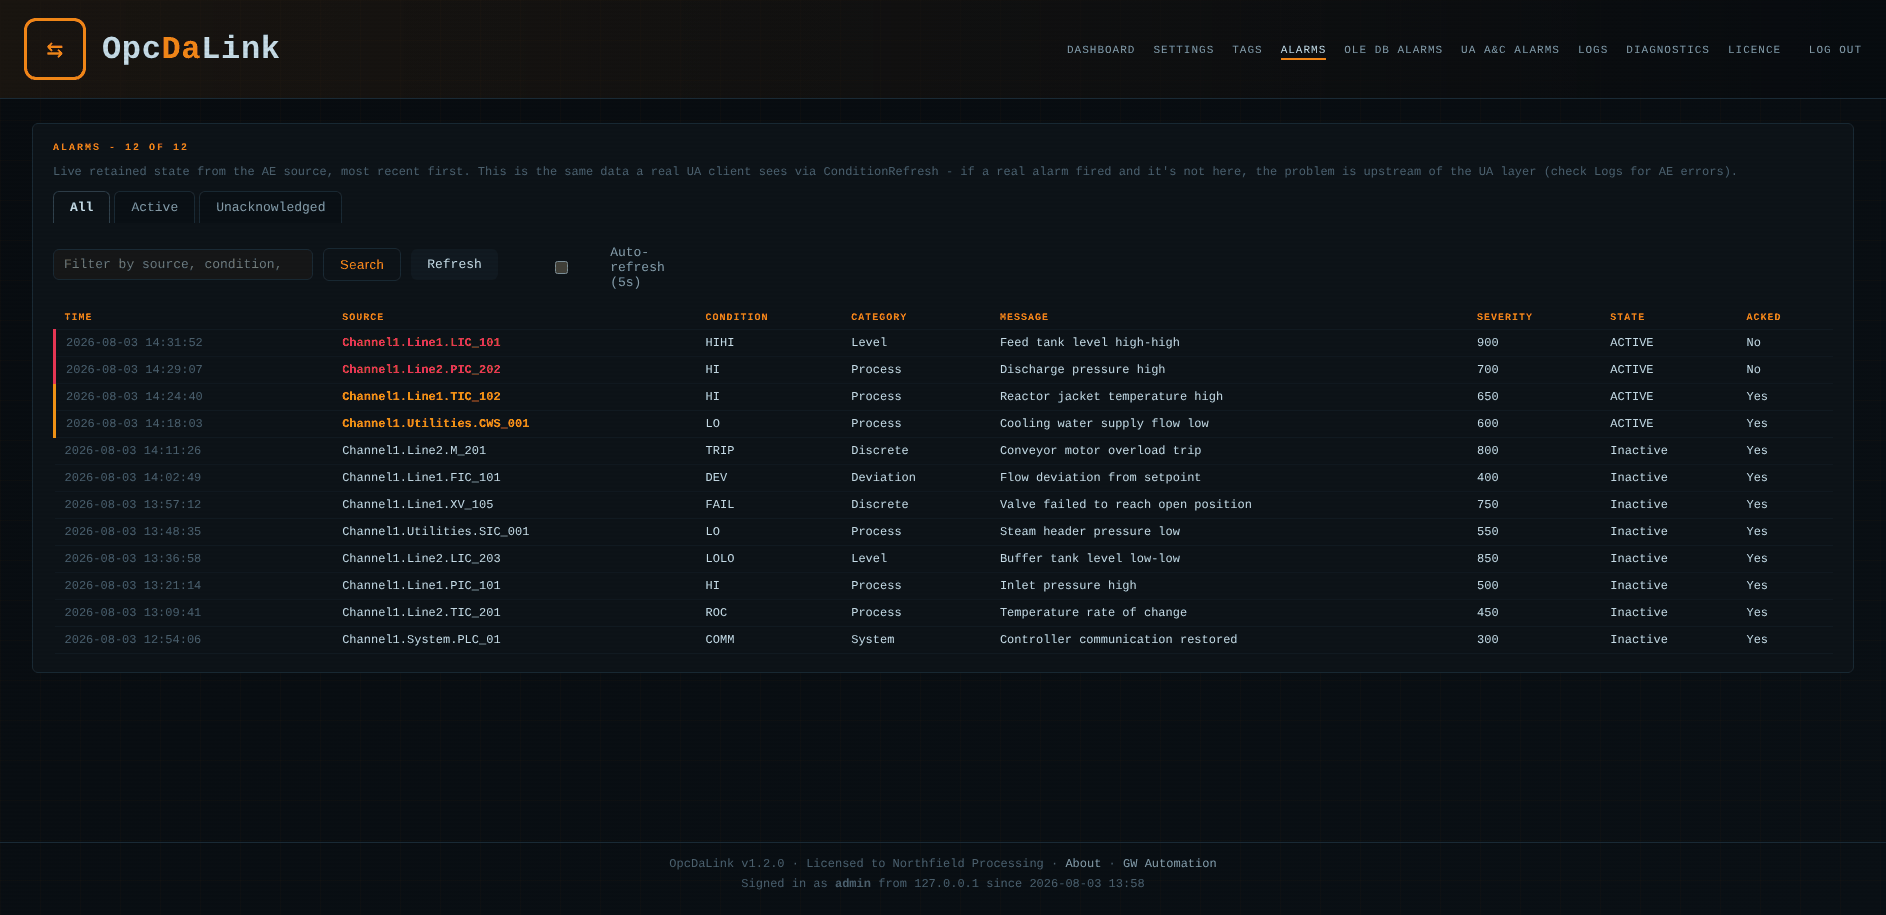
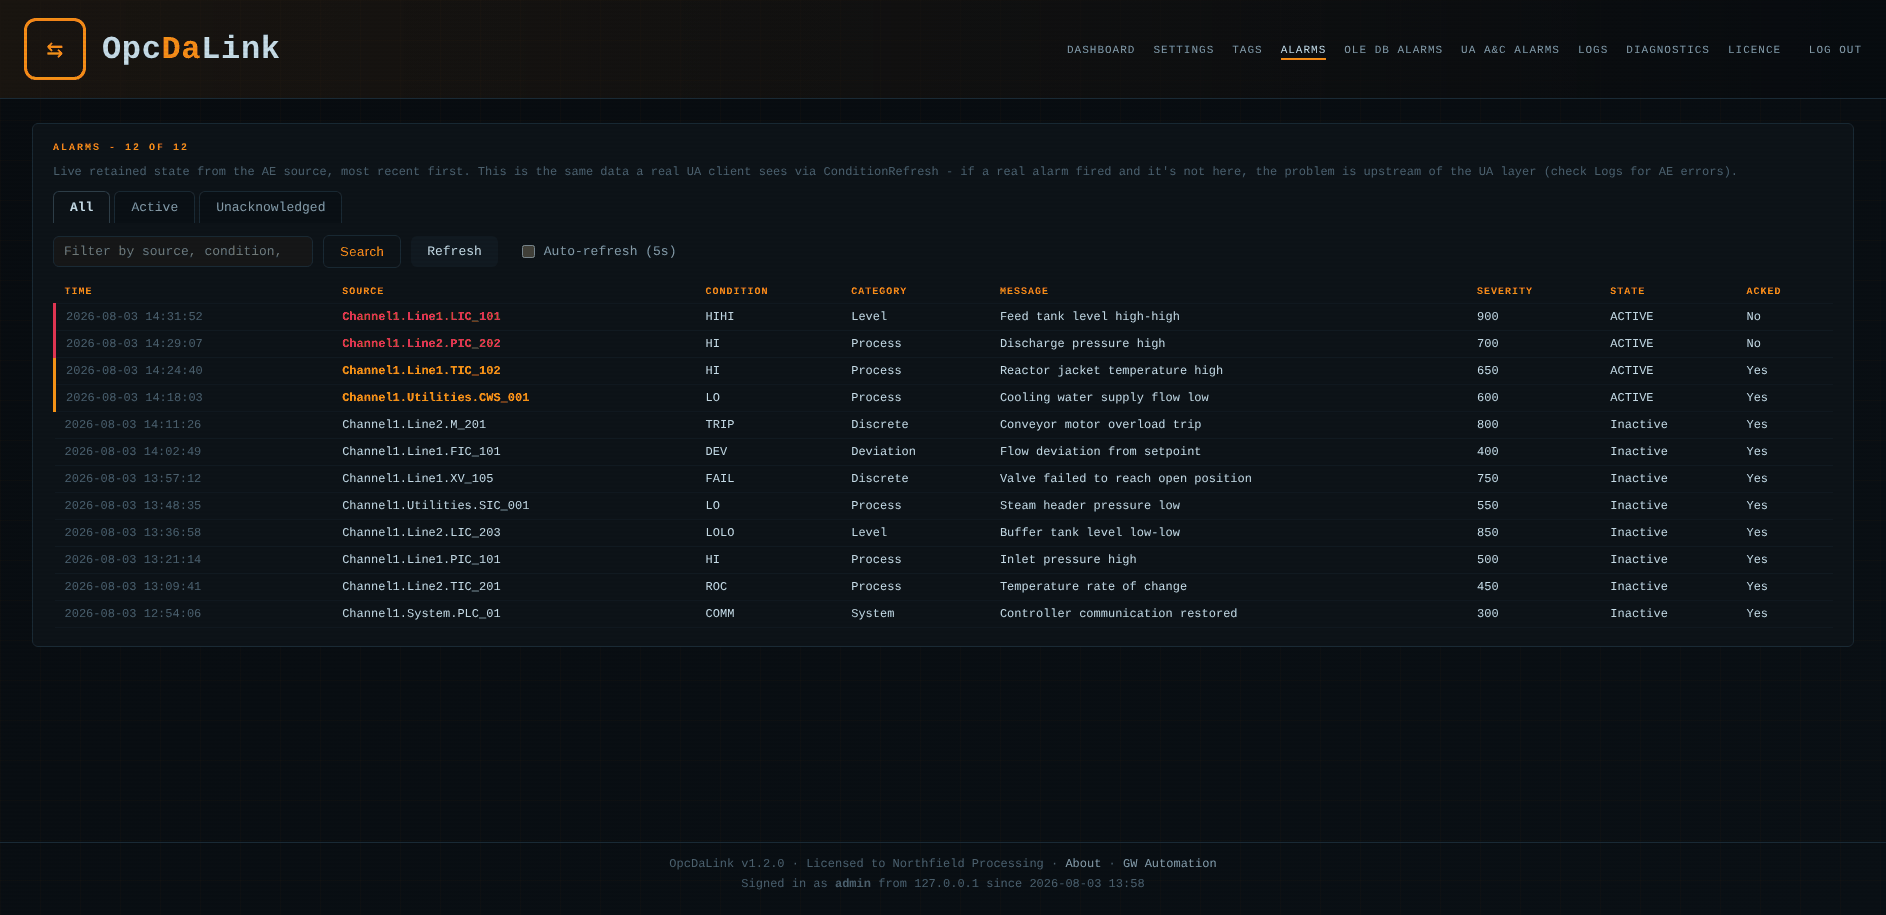
Retake OpcDaLink alarms and licence screenshots after the product styling fixes
Claude-Session: https://claude.ai/code/session_01DbtpwZXLdQCGhjVUBmrpbQ

diff --git a/opcdalink/index.html b/opcdalink/index.html
@@ -80,10 +80,10 @@
           <button role="tab" type="button" aria-selected="true" tabindex="0" data-src="/assets/da-dashboard.png?v=1" data-alt="OpcDaLink dashboard showing DA connection status, UA endpoint and mirrored item count">Dashboard</button>
           <button role="tab" type="button" aria-selected="false" tabindex="-1" data-src="/assets/da-tags.png?v=1" data-alt="OpcDaLink tags page listing the mirrored DA address space with live values and quality">Tags</button>
           <button role="tab" type="button" aria-selected="false" tabindex="-1" data-src="/assets/da-history.png?v=1" data-alt="OpcDaLink HDA catalog listing the history tags the historian holds">History tags</button>
-          <button role="tab" type="button" aria-selected="false" tabindex="-1" data-src="/assets/da-alarms.png?v=1" data-alt="OpcDaLink alarms page listing active and inactive alarms with severity and acknowledgement state">Alarms</button>
+          <button role="tab" type="button" aria-selected="false" tabindex="-1" data-src="/assets/da-alarms.png?v=2" data-alt="OpcDaLink alarms page listing active and inactive alarms with severity and acknowledgement state">Alarms</button>
           <button role="tab" type="button" aria-selected="false" tabindex="-1" data-src="/assets/da-settings.png?v=1" data-alt="OpcDaLink settings page with DA connection, UA security and certificate configuration">Settings</button>
           <button role="tab" type="button" aria-selected="false" tabindex="-1" data-src="/assets/da-logs.png?v=1" data-alt="OpcDaLink activity log showing sessions, writes and quality events">Activity log</button>
-          <button role="tab" type="button" aria-selected="false" tabindex="-1" data-src="/assets/da-licence.png?v=1" data-alt="OpcDaLink licence page showing a full per-site licence and the box for adding a licence file">Licence</button>
+          <button role="tab" type="button" aria-selected="false" tabindex="-1" data-src="/assets/da-licence.png?v=2" data-alt="OpcDaLink licence page showing a full per-site licence and the box for adding a licence file">Licence</button>
         </div>
         <div class="shot" role="tabpanel">
           <img src="/assets/da-dashboard.png?v=1" alt="OpcDaLink dashboard showing DA connection status, UA endpoint and mirrored item count" loading="lazy">
